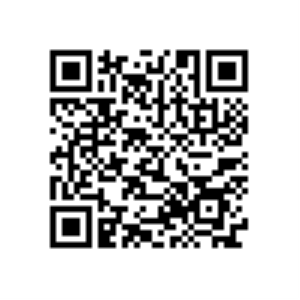
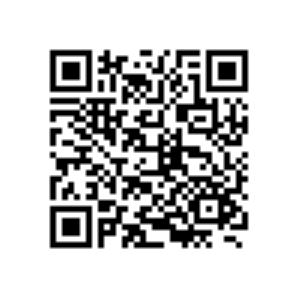
...

diff --git a/MisOfertasFinal/Views/ConsultarPuntos/ConsultarPuntos.aspx.cs b/MisOfertasFinal/Views/ConsultarPuntos/ConsultarPuntos.aspx.cs
@@ -14,6 +14,7 @@ using iTextSharp.text.html;
 using iTextSharp.text.html.simpleparser;
 using System.IO;
 using System.Text.RegularExpressions;
+using MisOfertasFinal.Entidades;
 
 namespace MisOfertasFinal.Views.ConsultarPuntos
 {
@@ -92,6 +93,7 @@ namespace MisOfertasFinal.Views.ConsultarPuntos
             PdfPCell titulo = new PdfPCell(new Phrase("Cupón de Descuento"));
             titulo.Colspan = 3;
             titulo.HorizontalAlignment = 1;
+            titulo.BorderWidthTop = 1; titulo.BorderWidthLeft = 1; titulo.BorderWidthRight = 1; titulo.BorderWidthBottom = 0;
             tablaPdf.AddCell(titulo);
 
             PdfPCell celdaimagen = new PdfPCell();
@@ -99,23 +101,102 @@ namespace MisOfertasFinal.Views.ConsultarPuntos
             celdaimagen.Rowspan = 7;
             celdaimagen.HorizontalAlignment = 1;
             celdaimagen.VerticalAlignment = 1;
+            celdaimagen.BorderWidthLeft = 1; celdaimagen.BorderWidthBottom=1; celdaimagen.BorderWidthRight = 0;celdaimagen.BorderWidthTop = 0;
             tablaPdf.AddCell(celdaimagen);
 
-            tablaPdf.AddCell("Nombre:");
-            tablaPdf.AddCell(nombre);
-            tablaPdf.AddCell("RUT:");
-            tablaPdf.AddCell(usuario.RUT_USUARIO);
-            tablaPdf.AddCell("Puntos:");
-            tablaPdf.AddCell(usuario.PUNTOS_USUARIO.ToString());
-            tablaPdf.AddCell("Descuento:");
-            tablaPdf.AddCell(datosTicket.Descuento(puntos).ToString()+"%");
-            tablaPdf.AddCell("Rubro:");
-            tablaPdf.AddCell(datosTicket.RubroDesct(puntos));
-            tablaPdf.AddCell("Máximo Descuento:");
-            tablaPdf.AddCell("$"+datosTicket.MaxDect(puntos).ToString());
-            tablaPdf.AddCell("Fecha Expiración:");
-            tablaPdf.AddCell(fechaFinal.ToString("dd/MM/yyyy"));
+            PdfPCell cellNombre = new PdfPCell(new Phrase("Nombre:"));
+            cellNombre.BorderWidth = 0;
+            tablaPdf.AddCell(cellNombre);
 
+            PdfPCell cellNombreUsu = new PdfPCell(new Phrase(nombre));
+            cellNombreUsu.BorderWidth = 0;
+            cellNombreUsu.BorderWidthRight = 1;
+            tablaPdf.AddCell(cellNombreUsu);
+
+            PdfPCell cellRut = new PdfPCell(new Phrase("RUT:"));
+            cellRut.BorderWidth = 0;
+            tablaPdf.AddCell(cellRut);
+
+            PdfPCell cellRutUsu = new PdfPCell(new Phrase(usuario.RUT_USUARIO));
+            cellRutUsu.BorderWidth = 0;
+            cellRutUsu.BorderWidthRight = 1;
+            tablaPdf.AddCell(cellRutUsu);
+
+            PdfPCell cellPuntos = new PdfPCell(new Phrase("Puntos:"));
+            cellPuntos.BorderWidth = 0;
+            tablaPdf.AddCell(cellPuntos);
+
+            PdfPCell cellPuntosUsu = new PdfPCell(new Phrase(usuario.PUNTOS_USUARIO.ToString()));
+            cellPuntosUsu.BorderWidth = 0;
+            cellPuntosUsu.BorderWidthRight = 1;
+            tablaPdf.AddCell(cellPuntosUsu);
+
+            PdfPCell cellDescto = new PdfPCell(new Phrase("Descuento:"));
+            cellDescto.BorderWidth = 0;
+            tablaPdf.AddCell(cellDescto);
+
+            PdfPCell cellDesctoUsu = new PdfPCell(new Phrase(datosTicket.Descuento(puntos).ToString() + "%"));
+            cellDesctoUsu.BorderWidth = 0;
+            cellDesctoUsu.BorderWidthRight = 1;
+            tablaPdf.AddCell(cellDesctoUsu);
+
+            PdfPCell cellRubro = new PdfPCell(new Phrase("Rubro:"));
+            cellRubro.BorderWidth = 0;
+            tablaPdf.AddCell(cellRubro);
+
+            PdfPCell cellRubroUsu = new PdfPCell(new Phrase(datosTicket.RubroDesct(puntos)));
+            cellRubroUsu.BorderWidth = 0;
+            cellRubroUsu.BorderWidthRight = 1;
+            tablaPdf.AddCell(cellRubroUsu);
+
+            PdfPCell cellMax = new PdfPCell(new Phrase("Máximo Descuento:"));
+            cellMax.BorderWidth = 0;
+            tablaPdf.AddCell(cellMax);
+
+            PdfPCell cellMaxUsu = new PdfPCell(new Phrase("$" + datosTicket.MaxDect(puntos).ToString()));
+            cellMaxUsu.BorderWidth = 0;
+            cellMaxUsu.BorderWidthRight = 1;
+            tablaPdf.AddCell(cellMaxUsu);
+
+            PdfPCell cellFecha = new PdfPCell(new Phrase("Fecha Expiración:"));
+            cellFecha.BorderWidth = 0;
+            cellFecha.BorderWidthBottom = 1;
+            tablaPdf.AddCell(cellFecha);
+
+            PdfPCell cellFechaUsu = new PdfPCell(new Phrase(fechaFinal.ToString("dd/MM/yyyy")));
+            cellFechaUsu.BorderWidth = 0;
+            cellFechaUsu.BorderWidthRight = 1;
+            cellFechaUsu.BorderWidthBottom = 1;
+            tablaPdf.AddCell(cellFechaUsu);
+                          
+      
+            Entities obEntitiesOfertas = new Entities();
+            TICKETDESCUENTO ticket = new TICKETDESCUENTO();
+
+            //convertir imagen a byte[] para gardarlo en la base de datos
+            FileStream stream = File.OpenRead(Server.MapPath("./codigo.png"));
+            byte[] fileBytes = new byte[stream.Length];
+            stream.Read(fileBytes, 0, fileBytes.Length);
+            stream.Close();
+            /*proceso inverso
+             * using (Stream file = File.OpenWrite(Server.MapPath("./codigo.png")))
+             *   {
+             *       file.Write(fileBytes, 0, fileBytes.Length);
+             *   }
+             */
+            
+            /*
+            ticket.ID_TICKET = datosTicket.BuscarUltimoIDTicket() + 1;
+            ticket.CODIGOBARRA = fileBytes;
+            ticket.DESCUENTO_OTORGADO = datosTicket.Descuento(puntos);
+            ticket.FECHA_INICIO = fechaInicio;
+            ticket.FECHA_TERMINO = fechaFinal;
+            ticket.RUT_USUARIO = usuario.RUT_USUARIO;
+            ticket.TOPE = datosTicket.MaxDect(puntos);
+            */
+            obEntitiesOfertas.InsertarTicket(fechaFinal, datosTicket.MaxDect(puntos), usuario.RUT_USUARIO, fileBytes, fechaInicio, datosTicket.BuscarUltimoIDTicket() + 1, datosTicket.Descuento(puntos));
+            obEntitiesOfertas.SaveChanges();
+                     
             document.Add(tablaPdf);
             //cerrar Documento
             document.Close();

diff --git a/MisOfertasFinal/Entidades/ModeloData.Context.cs b/MisOfertasFinal/Entidades/ModeloData.Context.cs
@@ -181,5 +181,91 @@ namespace MisOfertasFinal.Entidades
     
             return ((IObjectContextAdapter)this).ObjectContext.ExecuteFunction("VALORACION_TAPI_INS1", p_IMAGENBOLETAParameter, p_CALIFICACIONParameter, p_NUMERO_BOLETAParameter, p_ID_OFERTAParameter, p_RUT_USUARIOParameter, p_ID_VALORACIONParameter);
         }
+    
+        public virtual int InsertarTicket(Nullable<System.DateTime> p_FECHA_TERMINO, Nullable<decimal> p_TOPE, string p_RUT_USUARIO, byte[] p_CODIGOBARRA, Nullable<System.DateTime> p_FECHA_INICIO, Nullable<decimal> p_ID_TICKET, Nullable<decimal> p_DESCUENTO_OTORGADO)
+        {
+            var p_FECHA_TERMINOParameter = p_FECHA_TERMINO.HasValue ?
+                new ObjectParameter("P_FECHA_TERMINO", p_FECHA_TERMINO) :
+                new ObjectParameter("P_FECHA_TERMINO", typeof(System.DateTime));
+    
+            var p_TOPEParameter = p_TOPE.HasValue ?
+                new ObjectParameter("P_TOPE", p_TOPE) :
+                new ObjectParameter("P_TOPE", typeof(decimal));
+    
+            var p_RUT_USUARIOParameter = p_RUT_USUARIO != null ?
+                new ObjectParameter("P_RUT_USUARIO", p_RUT_USUARIO) :
+                new ObjectParameter("P_RUT_USUARIO", typeof(string));
+    
+            var p_CODIGOBARRAParameter = p_CODIGOBARRA != null ?
+                new ObjectParameter("P_CODIGOBARRA", p_CODIGOBARRA) :
+                new ObjectParameter("P_CODIGOBARRA", typeof(byte[]));
+    
+            var p_FECHA_INICIOParameter = p_FECHA_INICIO.HasValue ?
+                new ObjectParameter("P_FECHA_INICIO", p_FECHA_INICIO) :
+                new ObjectParameter("P_FECHA_INICIO", typeof(System.DateTime));
+    
+            var p_ID_TICKETParameter = p_ID_TICKET.HasValue ?
+                new ObjectParameter("P_ID_TICKET", p_ID_TICKET) :
+                new ObjectParameter("P_ID_TICKET", typeof(decimal));
+    
+            var p_DESCUENTO_OTORGADOParameter = p_DESCUENTO_OTORGADO.HasValue ?
+                new ObjectParameter("P_DESCUENTO_OTORGADO", p_DESCUENTO_OTORGADO) :
+                new ObjectParameter("P_DESCUENTO_OTORGADO", typeof(decimal));
+    
+            return ((IObjectContextAdapter)this).ObjectContext.ExecuteFunction("InsertarTicket", p_FECHA_TERMINOParameter, p_TOPEParameter, p_RUT_USUARIOParameter, p_CODIGOBARRAParameter, p_FECHA_INICIOParameter, p_ID_TICKETParameter, p_DESCUENTO_OTORGADOParameter);
+        }
+    
+        public virtual int USUARIO_TAPI_UPD(Nullable<decimal> p_ID_TIPOUSUARIO, string p_DIRECCION_USUARIO, string p_CORREOACTIVO, string p_APEPA_USUARIO, string p_NOMBRE_USUARIO, string p_RUT_USUARIO, string p_CORREO_USUARIO, string p_APEMA_USUARIO, Nullable<decimal> p_PUNTOS_USUARIO, string p_TELEFONO_USUARIO, Nullable<decimal> p_ID_COMUNA, string p_PASSWORD_USUARIO)
+        {
+            var p_ID_TIPOUSUARIOParameter = p_ID_TIPOUSUARIO.HasValue ?
+                new ObjectParameter("P_ID_TIPOUSUARIO", p_ID_TIPOUSUARIO) :
+                new ObjectParameter("P_ID_TIPOUSUARIO", typeof(decimal));
+    
+            var p_DIRECCION_USUARIOParameter = p_DIRECCION_USUARIO != null ?
+                new ObjectParameter("P_DIRECCION_USUARIO", p_DIRECCION_USUARIO) :
+                new ObjectParameter("P_DIRECCION_USUARIO", typeof(string));
+    
+            var p_CORREOACTIVOParameter = p_CORREOACTIVO != null ?
+                new ObjectParameter("P_CORREOACTIVO", p_CORREOACTIVO) :
+                new ObjectParameter("P_CORREOACTIVO", typeof(string));
+    
+            var p_APEPA_USUARIOParameter = p_APEPA_USUARIO != null ?
+                new ObjectParameter("P_APEPA_USUARIO", p_APEPA_USUARIO) :
+                new ObjectParameter("P_APEPA_USUARIO", typeof(string));
+    
+            var p_NOMBRE_USUARIOParameter = p_NOMBRE_USUARIO != null ?
+                new ObjectParameter("P_NOMBRE_USUARIO", p_NOMBRE_USUARIO) :
+                new ObjectParameter("P_NOMBRE_USUARIO", typeof(string));
+    
+            var p_RUT_USUARIOParameter = p_RUT_USUARIO != null ?
+                new ObjectParameter("P_RUT_USUARIO", p_RUT_USUARIO) :
+                new ObjectParameter("P_RUT_USUARIO", typeof(string));
+    
+            var p_CORREO_USUARIOParameter = p_CORREO_USUARIO != null ?
+                new ObjectParameter("P_CORREO_USUARIO", p_CORREO_USUARIO) :
+                new ObjectParameter("P_CORREO_USUARIO", typeof(string));
+    
+            var p_APEMA_USUARIOParameter = p_APEMA_USUARIO != null ?
+                new ObjectParameter("P_APEMA_USUARIO", p_APEMA_USUARIO) :
+                new ObjectParameter("P_APEMA_USUARIO", typeof(string));
+    
+            var p_PUNTOS_USUARIOParameter = p_PUNTOS_USUARIO.HasValue ?
+                new ObjectParameter("P_PUNTOS_USUARIO", p_PUNTOS_USUARIO) :
+                new ObjectParameter("P_PUNTOS_USUARIO", typeof(decimal));
+    
+            var p_TELEFONO_USUARIOParameter = p_TELEFONO_USUARIO != null ?
+                new ObjectParameter("P_TELEFONO_USUARIO", p_TELEFONO_USUARIO) :
+                new ObjectParameter("P_TELEFONO_USUARIO", typeof(string));
+    
+            var p_ID_COMUNAParameter = p_ID_COMUNA.HasValue ?
+                new ObjectParameter("P_ID_COMUNA", p_ID_COMUNA) :
+                new ObjectParameter("P_ID_COMUNA", typeof(decimal));
+    
+            var p_PASSWORD_USUARIOParameter = p_PASSWORD_USUARIO != null ?
+                new ObjectParameter("P_PASSWORD_USUARIO", p_PASSWORD_USUARIO) :
+                new ObjectParameter("P_PASSWORD_USUARIO", typeof(string));
+    
+            return ((IObjectContextAdapter)this).ObjectContext.ExecuteFunction("USUARIO_TAPI_UPD", p_ID_TIPOUSUARIOParameter, p_DIRECCION_USUARIOParameter, p_CORREOACTIVOParameter, p_APEPA_USUARIOParameter, p_NOMBRE_USUARIOParameter, p_RUT_USUARIOParameter, p_CORREO_USUARIOParameter, p_APEMA_USUARIOParameter, p_PUNTOS_USUARIOParameter, p_TELEFONO_USUARIOParameter, p_ID_COMUNAParameter, p_PASSWORD_USUARIOParameter);
+        }
     }
 }

diff --git a/MisOfertasFinal/Views/VerOferta/VerOferta.aspx.cs b/MisOfertasFinal/Views/VerOferta/VerOferta.aspx.cs
@@ -55,12 +55,30 @@ namespace MisOfertasFinal.Views.VerOferta
 
         protected void dtlOferta_ItemCommand(object source, DataListCommandEventArgs e)
         {
+            Decimal puntosAcumulados = 0;
             List<Modelo.Ofertas> oferta = (List<Modelo.Ofertas>)Session["Oferta"];
             LnValoracion lnValoracion = new LnValoracion();
             LnUsuario lnUsuario = new LnUsuario();
             var usuario = lnUsuario.BuscarUsuarioMail((string)(Session["consumidorEmail"]));
             if (e.CommandName == "RegistrarValoracion")
             {
+
+                puntosAcumulados = usuario.PUNTOS_USUARIO + 10;
+                Usuario us = new Usuario();
+                {
+                    us.rut_usuario = usuario.RUT_USUARIO;
+                    us.nombre_usuario = usuario.NOMBRE_USUARIO;
+                    us.apema_usuario = usuario.APEMA_USUARIO;
+                    us.apepa_usuario = usuario.APEPA_USUARIO;
+                    us.correo_usuario = usuario.CORREO_USUARIO;
+                    us.direccion_usuario = usuario.DIRECCION_USUARIO;
+                    us.telefono_usuario = usuario.TELEFONO_USUARIO;
+                    us.password_usuario = usuario.PASSWORD_USUARIO;
+                    us.correoactivo = usuario.CORREOACTIVO;
+                    us.puntos_usuario = puntosAcumulados;
+                    us.id_tipoUsuario = usuario.ID_TIPOUSUARIO;
+                    us.id_comuna = usuario.ID_COMUNA;
+                }
                 foreach (var item in oferta)
                 {
                     Valoracion valoracion = new Valoracion();
@@ -72,8 +90,7 @@ namespace MisOfertasFinal.Views.VerOferta
                         valoracion.rut_usuario = usuario.RUT_USUARIO;
                         valoracion.calificacion = Convert.ToDecimal(((DropDownList)e.Item.FindControl("ddlValoracion")).SelectedValue.ToString());
                     }
-
-                    lnValoracion.InsertarValoracionOferta(valoracion);
+                    lnValoracion.InsertarValoracionOferta(valoracion,us);
                 }
 
                 

diff --git a/MisOfertasFinal/LogicaNegocio/LnValoracion.cs b/MisOfertasFinal/LogicaNegocio/LnValoracion.cs
@@ -1,4 +1,5 @@
 using MisOfertasFinal.Entidades;
+using MisOfertasFinal.Modelo;
 using System.Collections.Generic;
 using System.Linq;
 
@@ -27,26 +28,31 @@ namespace MisOfertasFinal.LogicaNegocio
         //        foreach (var item in listadoValoraciones)
         //        {
 
-        //            totalPuntaje = totalPuntaje + item.calificacion;
-        //        }
+            //        totalPuntaje = totalPuntaje + item.calificacion;
+            //    }
 
-        //        totalPuntaje = totalPuntaje / listadoValoraciones.Count;
-        //        return totalPuntaje;
-        //    }
+            //    totalPuntaje = totalPuntaje / listadoValoraciones.Count;
+            //    return totalPuntaje;
+            //}
             
         //}
 #endregion
 
         #region Insertar_valoracion
-        public void InsertarValoracionOferta(Modelo.Valoracion obValoracion)
+        public void InsertarValoracionOferta(Modelo.Valoracion obValoracion, Usuario us)
         {
+            LnUsuario lnUsuario = new LnUsuario();
             using (Entities obEntitiesOfertas = new Entities())
             {
                 // p_IMAGENBOLETAParameter, p_CALIFICACIONParameter, p_NUMERO_BOLETAParameter, p_ID_OFERTAParameter, p_RUT_USUARIOParameter, p_ID_VALORACIONParameter
                 obEntitiesOfertas.VALORACION_TAPI_INS1(obValoracion.imagen_boleta, obValoracion.calificacion, obValoracion.numero_boleta, obValoracion.id_oferta,
                 obValoracion.rut_usuario, obValoracion.id_valoracion);
+                lnUsuario.ActualizarUsuarioCliente(us);
                 obEntitiesOfertas.SaveChanges();
             }
+            
+            
+            
         }
         #endregion
     }

diff --git a/MisOfertasFinal/LogicaNegocio/LnTicket.cs b/MisOfertasFinal/LogicaNegocio/LnTicket.cs
@@ -11,17 +11,17 @@ namespace MisOfertasFinal.LogicaNegocio
     {
         public decimal Descuento(decimal puntos)
         {
-            decimal dest=5;
-            
+            decimal dest = 5;
+
             if (puntos >= 101 && puntos <= 500)
             {
                 dest = 10;
-                
+
             }
             if (puntos >= 501 && puntos <= 1000)
             {
                 dest = 15;
-               
+
             }
             return dest;
         }
@@ -45,15 +45,15 @@ namespace MisOfertasFinal.LogicaNegocio
         public decimal MaxDect(decimal puntos)
         {
             decimal max = 100000;
-            
+
             if (puntos >= 101 && puntos <= 500)
             {
-              
+
                 max = 150000;
             }
             if (puntos >= 501 && puntos <= 1000)
             {
-                
+
                 max = 300000;
             }
             return max;
@@ -74,7 +74,14 @@ namespace MisOfertasFinal.LogicaNegocio
             glosa = nombre + " " + rut + " " + puntos + " " + descuento + " " + rubro + " " + max + " " + fecha;
             return glosa;
         }
-
-       
+        
+        public decimal BuscarUltimoIDTicket()
+        {
+            using (Entities obEntitiesOfertas = new Entities())
+            {
+                decimal idTicket=obEntitiesOfertas.TICKETDESCUENTO.OrderByDescending(x => x.ID_TICKET).First().ID_TICKET;
+                return idTicket;
+            }
+        }       
     }
 }

diff --git a/MisOfertasFinal/LogicaNegocio/LnUsuario.cs b/MisOfertasFinal/LogicaNegocio/LnUsuario.cs
@@ -101,6 +101,17 @@ namespace MisOfertasFinal.LogicaNegocio
         }
         #endregion
 
+        #region actualizar_datos
+        public void ActualizarUsuarioCliente(Modelo.Usuario usuario)
+        {
+            using (Entities obEntitiesOfertas = new Entities())
+            {  obEntitiesOfertas.USUARIO_TAPI_UPD(usuario.id_tipoUsuario, usuario.direccion_usuario, usuario.correoactivo, usuario.apepa_usuario, usuario.nombre_usuario,
+               usuario.rut_usuario, usuario.correo_usuario, usuario.apema_usuario, usuario.puntos_usuario, usuario.telefono_usuario,usuario.id_comuna, usuario.password_usuario);
+               obEntitiesOfertas.SaveChanges();
+            }
+        }
+        #endregion
+
         public USUARIO BuscarUsuarioMail(string consumidorEmail)
         {
             using (Entities obEntitiesOfertas = new Entities())
